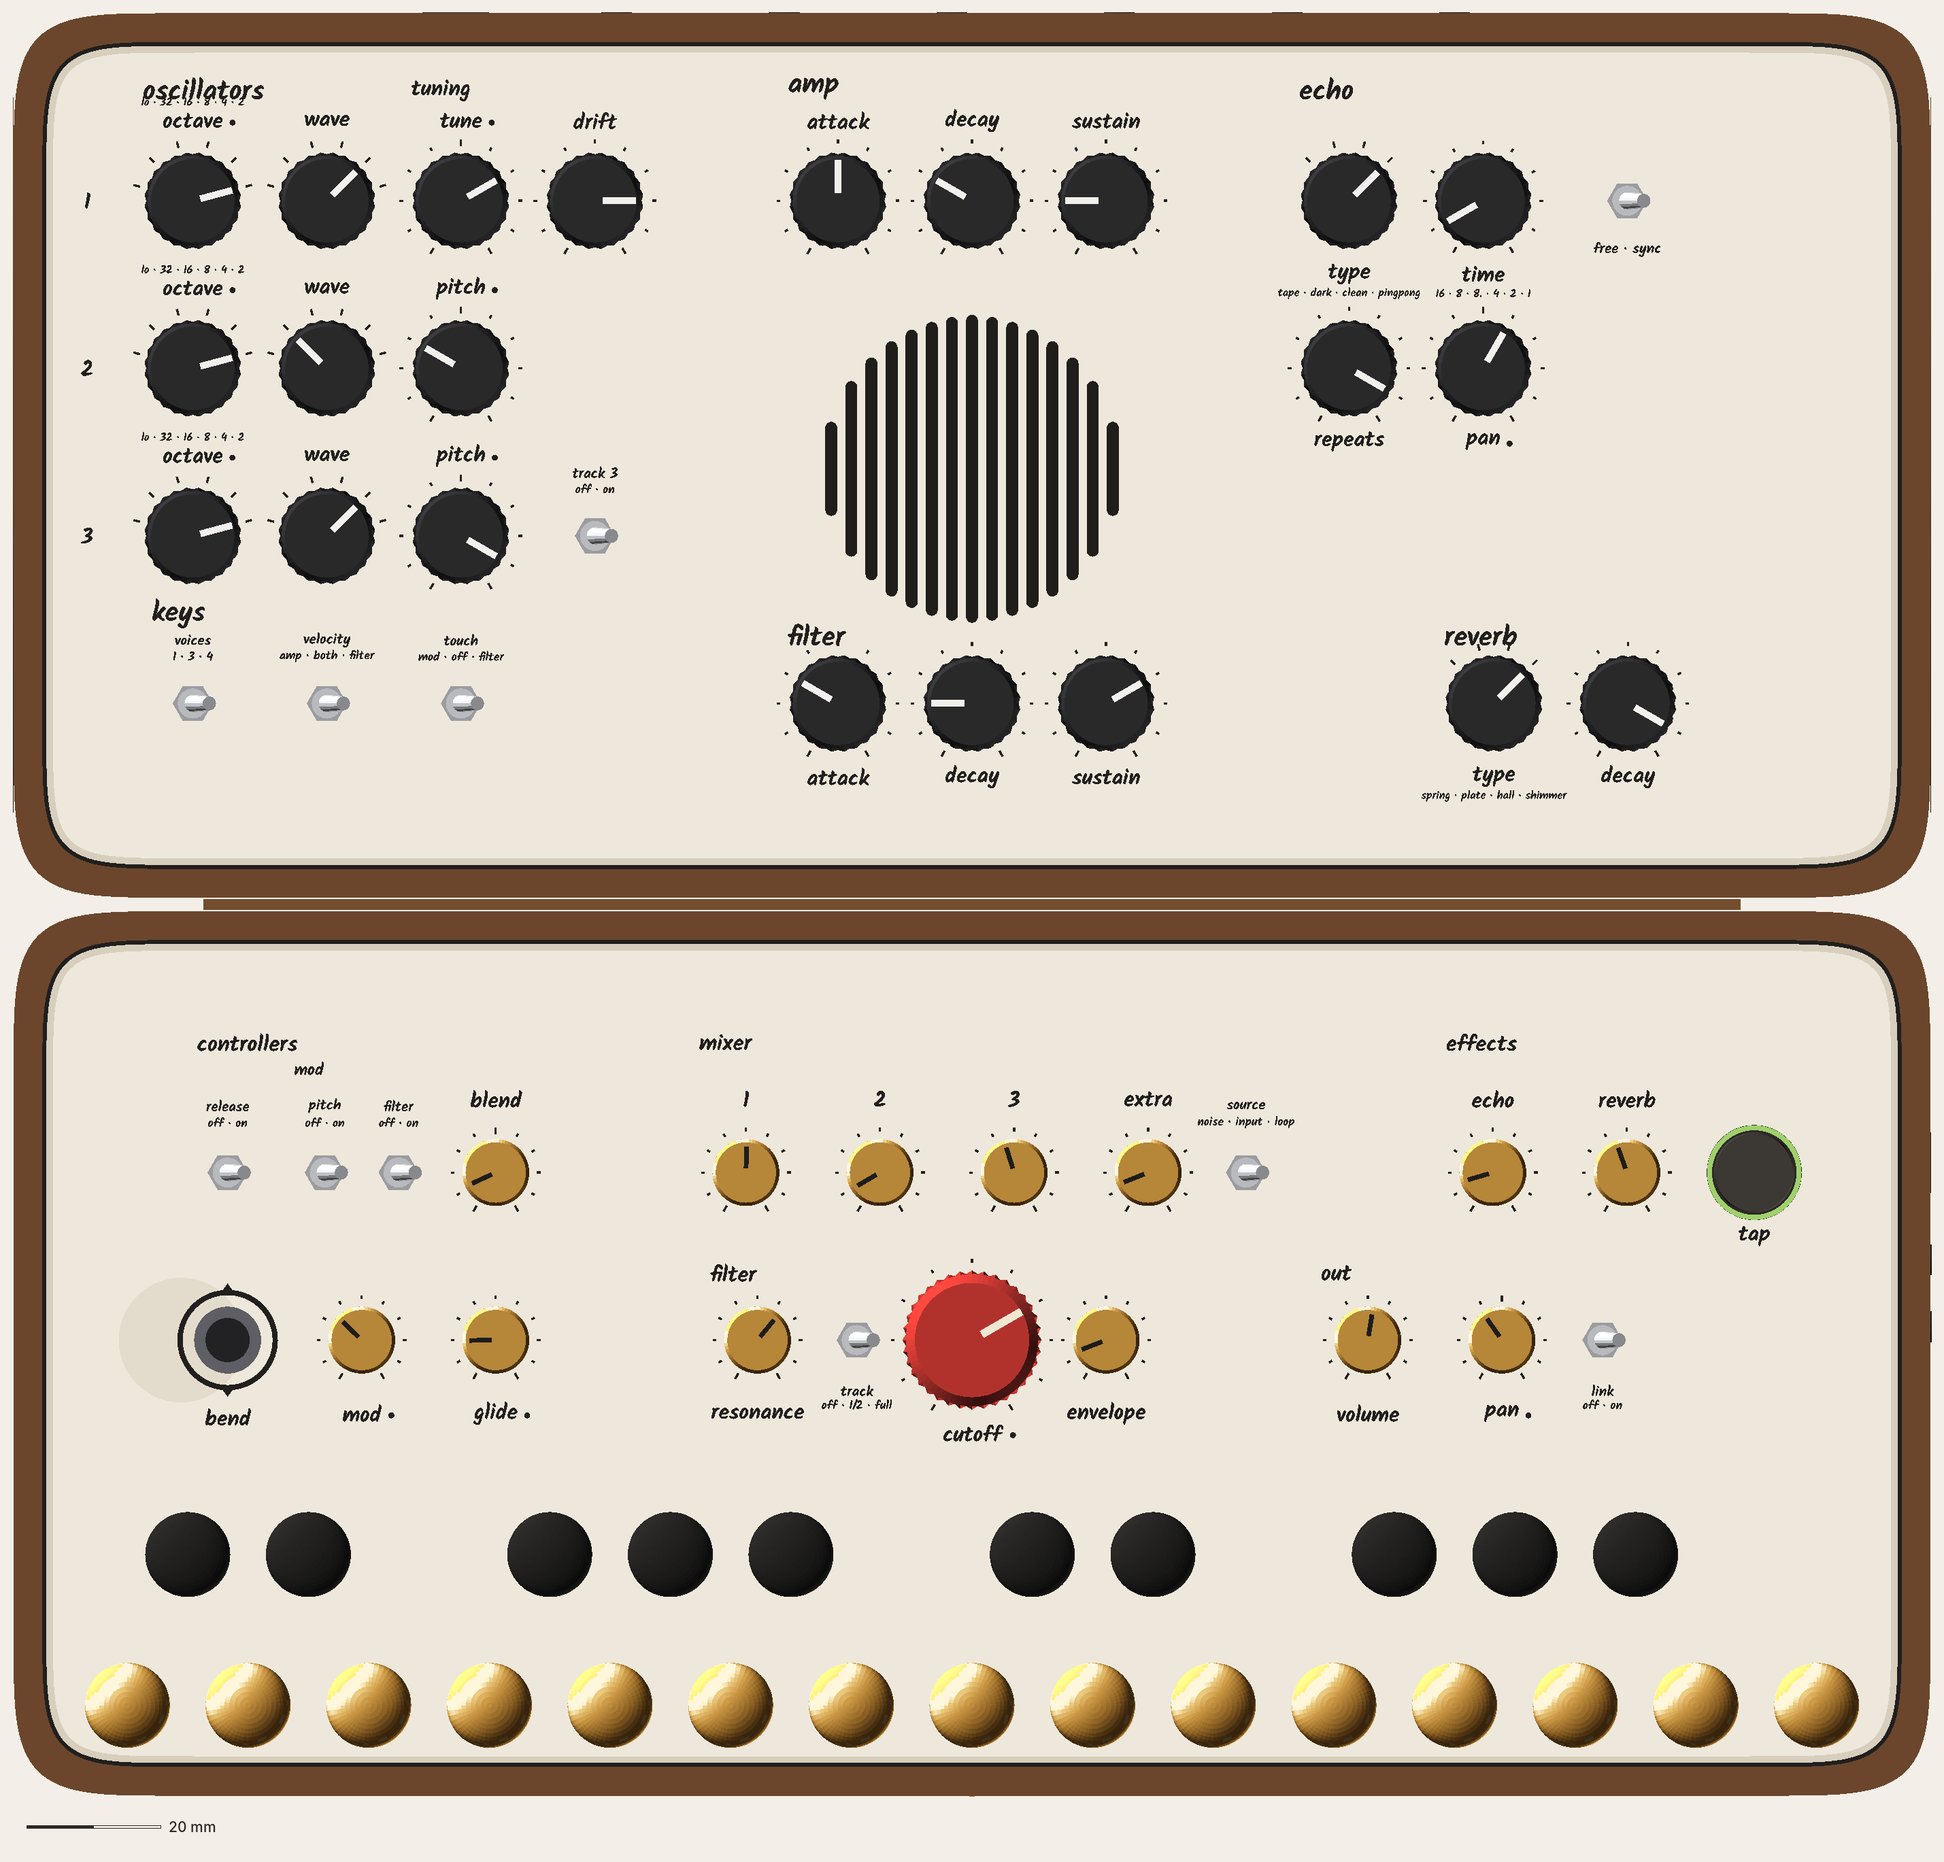
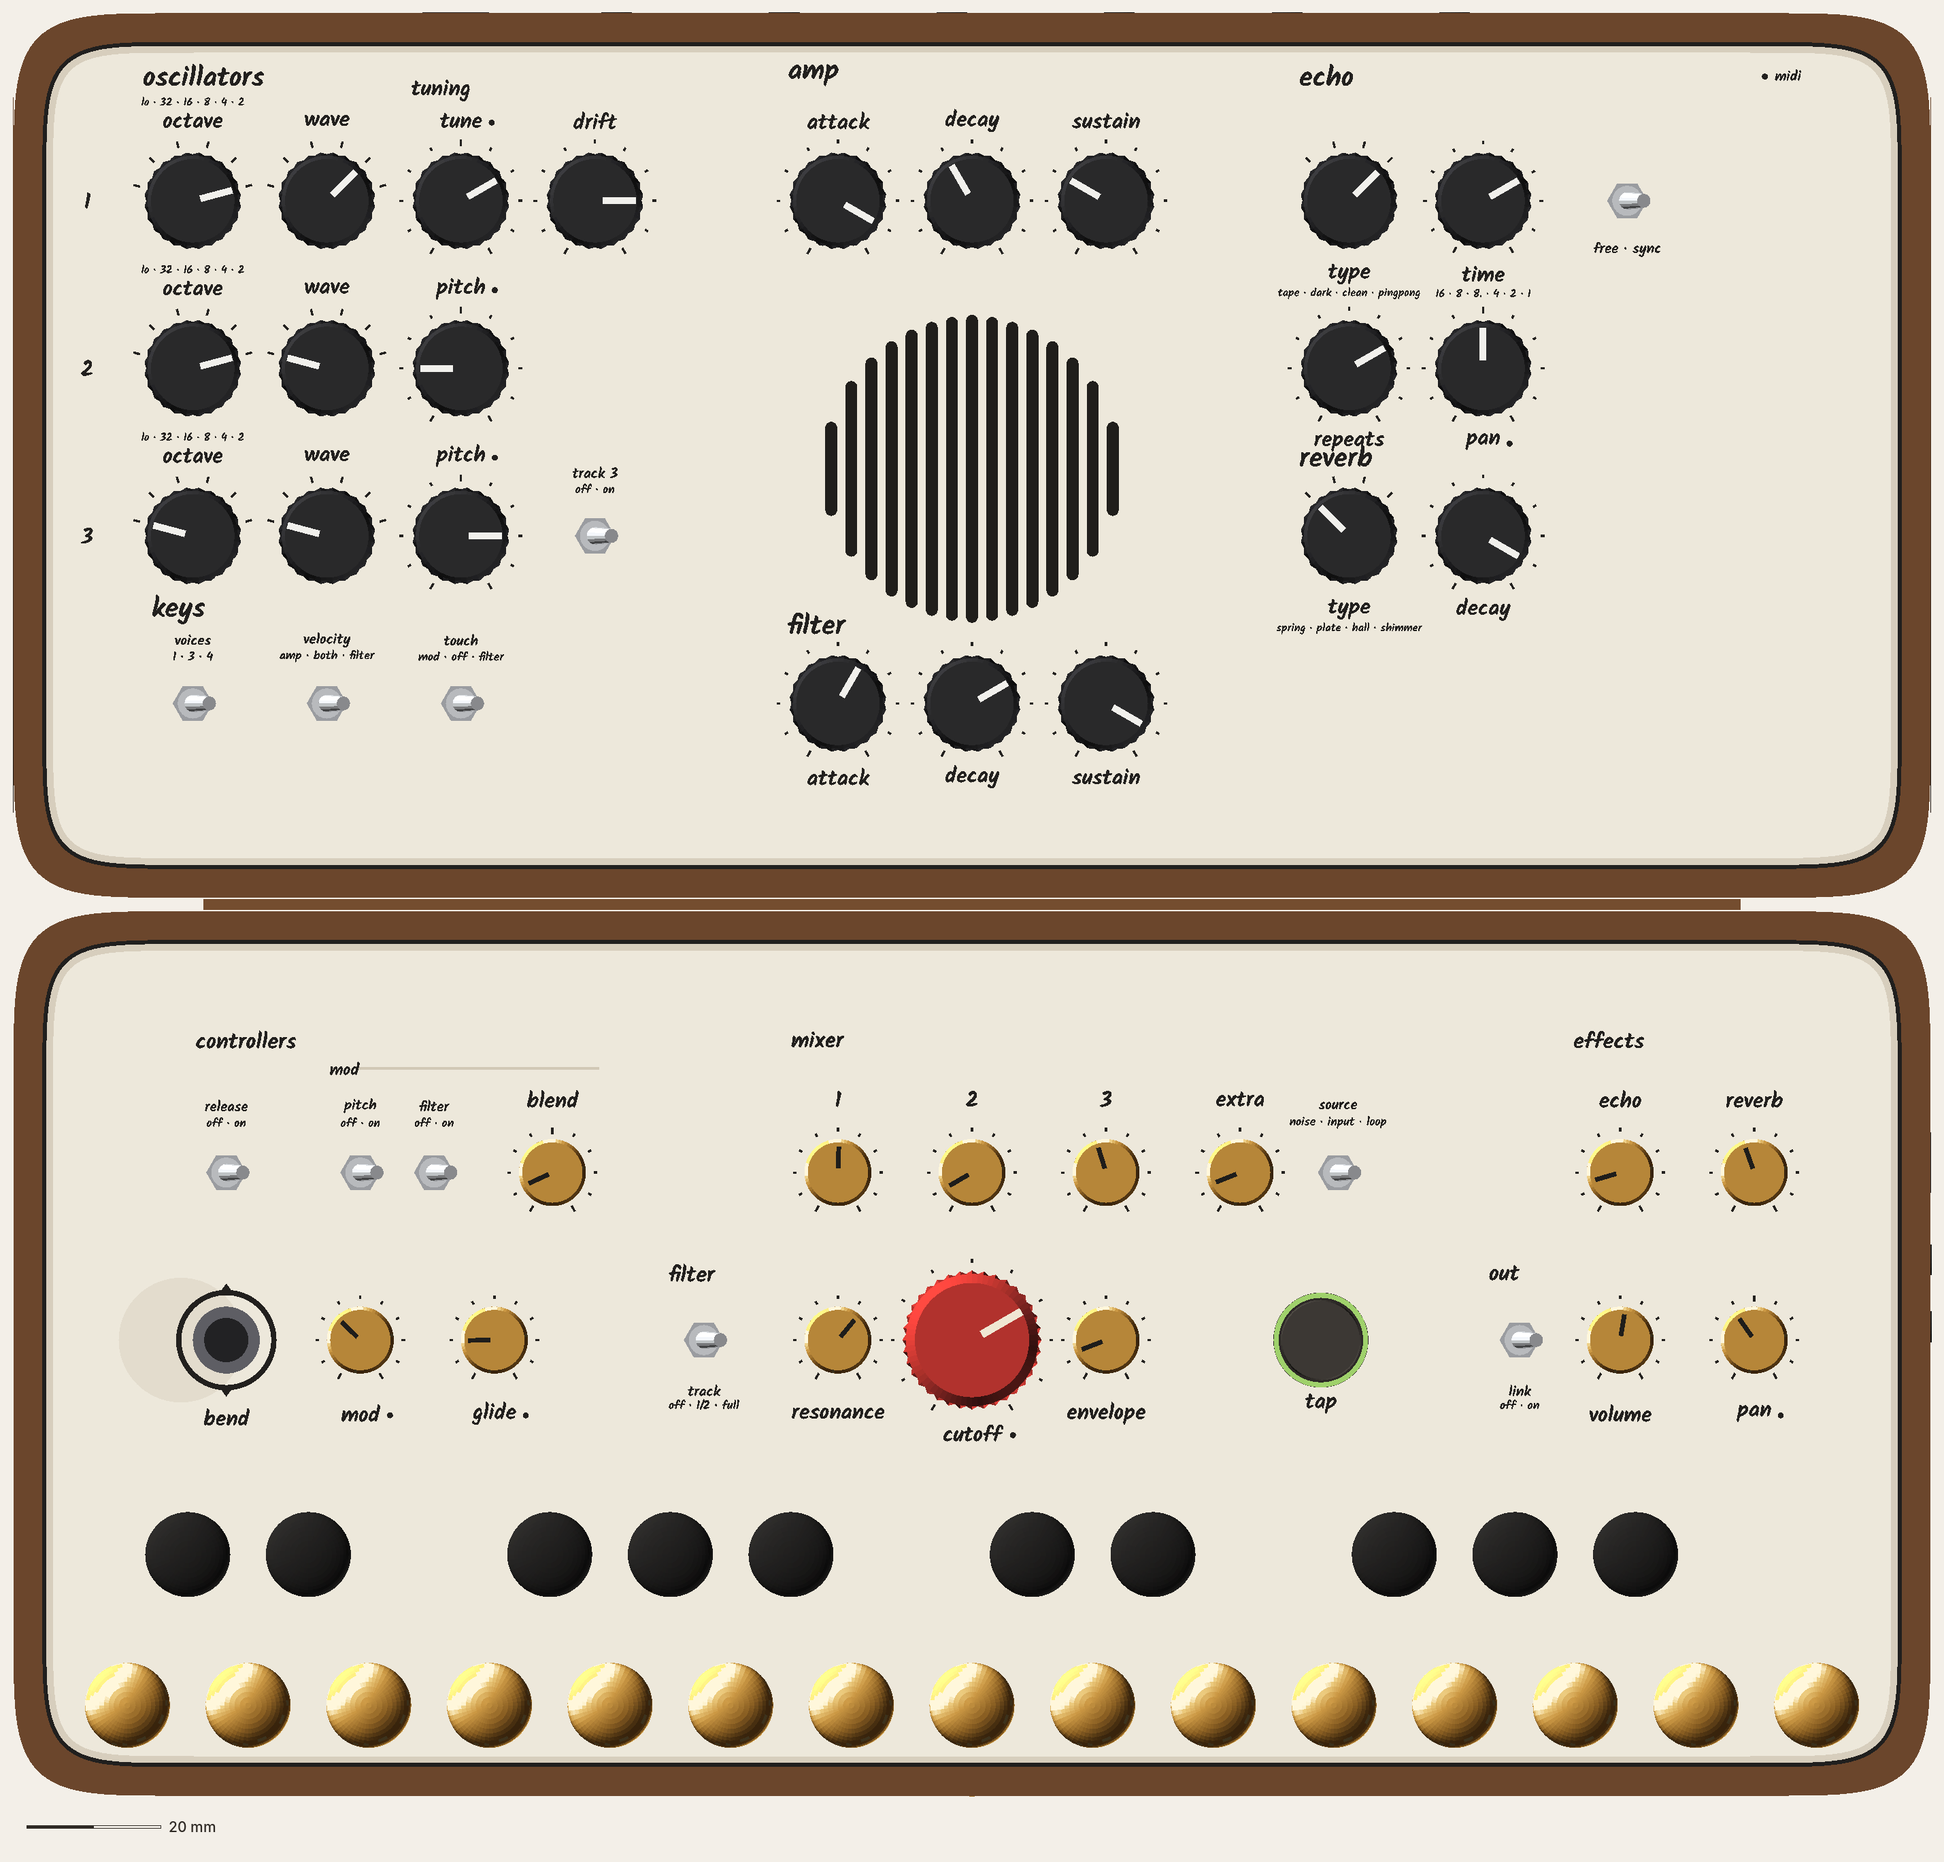
CATHEDRAL round 8, visual: lay out 3fa4e78; MIDI subset (no octave dots) with the printed key on every option, base mod hairline; P5R top and standing, P5OB study re-rendered; look doc rev 9.9; real-Kalam 0 (P5R)

diff --git a/design/concepts/_mock-src/rb.py b/design/concepts/_mock-src/rb.py
@@ -82,9 +82,10 @@ def mark(x, y, z, r, name, ink):
     return s
 
 # ---- round 6 (player review round 2): MIDI dots back, one place; stepped pointers on a detent; octave positions
-MIDI_DOT = ("MOD", "GLIDE", "CUTOFF", "TUNE", "FREQ 2", "FREQ 3", "FREQ 4", "RANGE 1", "RANGE 2", "RANGE 3", "RANGE 4",
-            "DRY PAN", "ECHO PAN")   # docs/features/midi.md "the MIDI-dot parameters" (ECHO / REVERB MIX: owner's open call)
+MIDI_DOT = ("MOD", "GLIDE", "CUTOFF", "TUNE", "FREQ 2", "FREQ 3", "FREQ 4", "DRY PAN", "ECHO PAN")
+           # docs/features/midi.md, round 7/8: knobs only, never a switch or a detented selector (octave dropped)
 TAP_CAP = "#3a3632"   # TAP's cap: matte warm black, a shade lighter than the bezel, so the lit ring reads between them
+MIDI_KEY_S = 1.55    # the key's word: switch-name size, so it reads as a key, not a heading
 MIDI_DOT_D, MIDI_DOT_GAP = 0.9, 1.0   # Ø 0.9, 1.0 clear right of the knob word's last letter, on its x-height centre
 OCTAVE_LINE = "lo · 32 · 16 · 8 · 4 · 2"   # RANGE's six firmware positions (eng/budget-variant.md: LO, 32'-2')
 _WB = {}
@@ -1735,7 +1736,7 @@ def nv_fit_sections(lc, sections):
     return list(sections)
 
 LEGEND_FIT = {}   # (echo "time" +0.5 is the checker's LEGEND_NUDGE since 33229cd; read below)
-P5R_HEAD_FIT = {"filter": (0.0, 0.8), "amp": (0.0, 0.8), "keys": (0.0, 0.6)}   # e38e035 real Kalam: filter / amp 0.83 / 0.79 over "attack"; keys 0.94 over "voices"
+P5R_HEAD_FIT = {"filter": (0.0, 0.8), "amp": (0.0, 0.8), "keys": (0.0, 0.6), "oscillators": (0.0, 0.6)}   # e38e035 real Kalam: filter / amp 0.83 / 0.79 over "attack"; keys 0.94 over "voices"; 3fa4e78: oscillators 0.93 over the "1"
 P5O_HEAD_FIT = {"filter": (0.0, 0.8), "amp": (0.0, 0.8)}   # 74ef961 studies: the old reverb fit is dropped (that heading moved); filter / amp +0.8 clear their attack knobs' top ticks (real 0.24 / 0.28). Was {"reverb": (-3.8, 1.55)}   # 33229cd: "reverb" over decay again: +1.55 clears decay's top tick (real 0.00); -3.8 hangs it into the gutter exactly like "out", so it sits >= 20 from the type fan (systems' zone rule)
 def nv_heads_left(lc, sections):
     """steer 5 score fixes 2. P5O: systems' SECTIONS_LEFT (every heading top-left of its group), with the visual's
@@ -2086,7 +2087,20 @@ class Nave(Cathedral):
             s += box(x0, L0 + d0, z, x1, L0 + d1, z + 0.03, self.rule_col())
         for nm_, x, d, _ in ([] if self._sq() else getattr(lc, "DOTS", [])):   # link dots (none in steer 5: read as MIDI dots)
             s += cyl(x, L0 + d, z - 0.005, 0.04, 1.2, ink, fn=24)
+        mk = getattr(lc, "MIDI_KEY", None)
+        if mk is None and self._sq():                    # round 8: every option carries the key, top right on its top
+            hd = max((d_ for t_, x_, d_ in sections), default=None)   #   heading line (P5R's comes from the checker)
+            if hd is not None:
+                mk = ("• midi", lc.MR, hd, lc.NS)
+                s += txt(lc.MR, L0 + hd, z, "midi", MIDI_KEY_S, ink, font=st.font, halign="right")
+                b_ = word_box("midi", MIDI_KEY_S)
+                s += cyl(lc.MR - (b_[2] - b_[0]) - MIDI_DOT_GAP - MIDI_DOT_D / 2, L0 + hd - 0.12 * MIDI_KEY_S, z, 0.04, MIDI_DOT_D, ink, fn=16)
         for t, x, d, sz, a in nv_notes(lc):              # small free legends: lead-ins in the ink, notes / cues light
+            if mk and t == mk[0]:                         # round 8: the printed key, "• midi", with the panel's own dot
+                s += txt(x, L0 + d, z, "midi", MIDI_KEY_S, ink, font=st.font, halign="right")
+                b = word_box("midi", MIDI_KEY_S)
+                s += cyl(x - (b[2] - b[0]) - MIDI_DOT_GAP - MIDI_DOT_D / 2, L0 + d - 0.12 * MIDI_KEY_S, z, 0.04, MIDI_DOT_D, ink, fn=16)
+                continue
             col = INK_LIGHT if (sz <= lc.NS + 1e-6 or (t == "4" and self._ghosting())) else ink   # the ghost slot's "4"
             s += txt(x, L0 + d, z, t, sz, col, font=st.font, halign=a)
         s += self.vco4_ghost(z)
@@ -2123,6 +2137,8 @@ class Nave(Cathedral):
         s = "".join(txt(x, y, BASE_H + 0.01, t, 2.4, FO_INK, font=HAND, halign="left") for t, x, y in secs)
         # e38e035: base sub-headings ("mod" over pitch · filter · blend), left-aligned, Kalam 1.8
         s += "".join(txt(x, y, BASE_H + 0.01, t, 1.8, FO_INK, font=HAND, halign="left") for t, x, y in getattr(self.lc, "BASE_SUBS", []))
+        for nm_, x0, y0, x1, y1 in getattr(self.lc, "BASE_HAIR", []):   # round 8: "mod" runs on as a hairline over blend
+            s += box(x0, y0, BASE_H + 0.02, x1, y1, BASE_H + 0.05, self.rule_col())
         return s
 
     def base_extra(self, walnut):

diff --git a/design/branches/concepts/cathedral/how-it-looks-and-feels.md b/design/branches/concepts/cathedral/how-it-looks-and-feels.md
@@ -1,4 +1,4 @@
-# CATHEDRAL: how it looks and feels (visual, rev 9.8: round 7, systems e38e035; MIDI dots back, octave positions, TAP not brass)
+# CATHEDRAL: how it looks and feels (visual, rev 9.9: round 8, systems 3fa4e78; MIDI subset with a printed key)
 
 Seed: CHAMBER rev 2 + FOLD-105 v1.1. Owner record: `design/owner.md` (14:12 onwards). Read with `how-it-works.md`, where systems owns the geometry; **§19** is this revision's layout (commit a80d7c: equal-gutter base, P5O as columns with a VCO 4 slot, P5R with out at the end of its bottom row, pivots inboard, the gap rule). The director's steer-5 scores (P5R 8, P5O 6, base 7) are in `design/notes/director.md`; then P5R 9, P5O 8. Rev 9.1 lays out systems' fixes for the 10 (f8ba494): P5R's oscillator switches on one line under the VCOs; P5O's headings top-left, every VCO reading octave · wave · pitch, tune · drift as a headed "tuning" pair after VCO 1, and out in R4's right slot.
 
@@ -27,7 +27,7 @@ Seed: CHAMBER rev 2 + FOLD-105 v1.1. Owner record: `design/owner.md` (14:12 onwa
 | **Octave positions** (round 6, player review 2 §10) | Octave prints its six positions as a names line, like TIME's: *lo · 32 · 16 · 8 · 4 · 2* (the firmware's LO, 32'–2'), on the far side of its word from the knob. **Wave** keeps ticks only: its six shapes are a scale you hear. |
 | **Stepped pointers** | A stepped knob always points **at a detent** in every drawing, so the pointer and the ticks agree (renders used to leave octave and the types between detents). |
 | **TIME** | The continuous ring. The arrow, triangle and dot clusters are gone. Its SYNC divisions print as a names line under "time" once their count is settled (spec 9; the review proposes 6: 1/16 · 1/8 · 1/8. · 1/4 · 1/2 · 1/1). **Systems.** |
-| **MIDI dots** (round 6: back) | **One dot, Ø 0.9, always 1.0 right of the knob word's last letter, on the word's x-height**, on knobs only, never on switches. On the knobs in `docs/features/midi.md`'s MIDI-dot table: mod, glide, cutoff, tune, pitch 2 / 3, octave 1–3, out pan, echo pan. Echo and reverb mix get one if he adds them (his open call). Rev 9.6 dropped them because they wandered. The rule fixes that, and the architecture relies on them ("a DAW can move any knob marked with a MIDI dot"). |
+| **MIDI dots** (round 6: back) | **One dot, Ø 0.9, always 1.0 right of the knob word's last letter, on the word's x-height**, on knobs only, never on switches. On the knobs in `docs/features/midi.md`'s MIDI-dot set (round 8): mod, glide, cutoff, tune, pitch 2 / 3 (/ 4), out pan, echo pan. Never on a switch or a detented selector, so **octave carries no dot**. **A printed key, "• midi", sits at the lid's top right on its top heading line**, using the same dot. Echo and reverb mix get one if he adds them (his open call). Rev 9.6 dropped them because they wandered. The rule fixes that, and the architecture relies on them ("a DAW can move any knob marked with a MIDI dot"). |
 | **Link dots** ("pan●", "link●") | **Gone.** The player read them as MIDI dots. The word "link" carries the pairing. |
 | **Oscillator numbers** | In a **margin column** at x 11, aligned, clear of the octave rings (review 6). Before, they sat against the ring at nine o'clock and read as octave position numbers. |
 
@@ -36,6 +36,17 @@ Seed: CHAMBER rev 2 + FOLD-105 v1.1. Owner record: `design/owner.md` (14:12 onwa
 - **"envelopes", for systems:** take the review's §11: one ENVELOPES heading, with FILTER and AMP as row or column labels in the same margin style as the oscillator numbers, off the grille.
 - **The name is off the panel** (owner: "Also it doesn't need to say big energy").
 - **Reverb names in size order** (spring · plate · hall · shimmer, review 8) is a change to the DSP's position order. **Systems / director.**
+
+### Rev 9.9: round 8 (systems 3fa4e78)
+- **P5R:**
+  - the VCO numbers are sub-headings on the "tuning" line; row A is at d 99;
+  - base: both rows end on the margin; the mixer sits over the filter knobs; track is a 3-way low slide left of resonance; TAP is back on the front row; "mod" runs on as a hairline over blend.
+- **MIDI:**
+  - octave's dots are gone (it's a detented selector);
+  - the key "• midi" (the panel's dot, word at 1.55) is at the top right. P5R's position comes from the checker; every other option puts it on its top heading line at the right margin, so all options read the same.
+  - **Agreed with systems:** a key is the honest way to make a subset legible.
+- **Fit:** P5R "oscillators" +0.6 (0.93 over the "1" sub-heading). Real Kalam 0, rules 0, director's tests 0 (P5R).
+- **P5OB (earlier study, re-rendered with the marking and key):** "reverb" overlaps "repeats" (−1.0) and "keys" is 1.31 from octave 3. Both are the study's geometry; the gaps are kept.
 
 ### Rev 9.8: round 7 (systems e38e035)
 - **P5R:** headings top left, a "tuning" sub-heading, VCO numbers in the gaps. Base: release behind bend; a "mod" sub-heading over pitch · filter · blend; "out" over volume · pan · link; "effects" over echo · reverb · tap; no "tempo".
